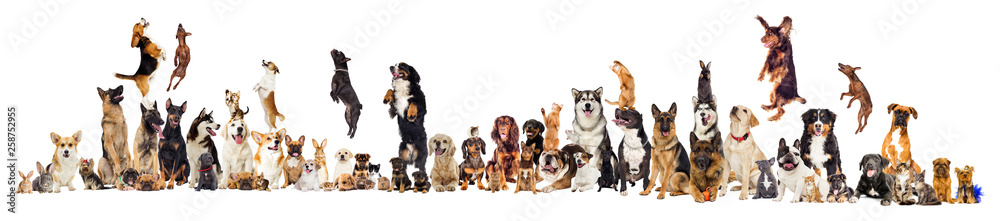
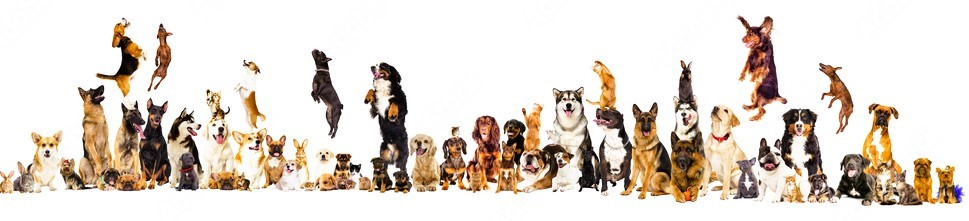
se armó tabla y se agregó botón en index,se cambió imagen y agregó botón en servicios

diff --git a/pages/Servicios.html b/pages/Servicios.html
@@ -69,7 +69,7 @@
             <section id="seccionPrincipalServicios">
                 <h3 data-aos="flip-left" data-aos-easing="ease-out-cubic" data-aos-duration="2000"> Atención
                     personalizada <br />-Silvina Marinelli-</h3>
-                <img src="../img/fondo principal perros y gatos.jpg" class="card-img-top " alt="diagnostico">
+                <img src="../img/principal muchos perros.jpg" class="card-img-top " alt="princicpalServicios" data-aos="zoom-out-down">
             
             </section>
 
@@ -96,11 +96,11 @@
                 </ul>
                 </div>
                 
-                <div class="col-12 col-md-6 p-0 d-flex flex-column justify-content-center" >
+                <div class="col-12 col-md-6 p-0 d-flex flex-column justify-content-center align-items-center" >
                 <h3 class="p-2 m-0">Turnos de peluquería al 1141760466</h3>
                 <p class="p-2 m-0 text-center">Atendemos de Martes a Sábados </p>
-                <a href="https://wa.me/541141760466" target="blank"><button>Envía un whatsapp para tener tu turno
-                    aquí!</button></a>
+                <a href="https://wa.me/541141760466" target="blank">
+                <button type="button" class="btn btn-secondary" disabled>Envía un whatsapp para tener tu turno aquí!</button> </a>
                 </div>
             </section>
         </div>
@@ -115,8 +115,8 @@
 
             <div class="row justify-content-around">
 
-                <div class="col-12 col-md-4 card" style="width: 25rem;">
-                    <img src="../img/ICONO ATENCION CLINICA (2).jpg" class="card-img-top" alt="atencionClinica">
+                <div class="col-12 col-md-4 card m-1" style="width: 25rem;">
+                    <img data-aos="zoom-in" src="../img/ICONO ATENCION CLINICA (2).jpg" class="card-img-top" alt="atencionClinica">
                     <div class="card-body">
                         <h5 class="card-title text-center">ATENCION CLINICA</h5>
                         <p class="card-text">La Dra. Silvina Marinelli realiza la atención clínica personalizada para perros y gatos. La
@@ -125,15 +125,15 @@
                             diagnóstico.</p>
                     </div>
                 </div>
-                <div class="col-12 col-md-4 card" style="width: 25rem;">
-                    <img src="../img/ICONO DIAGNOSTICO2.jpg" class="card-img-top " alt="diagnostico">
+                <div class="col-12 col-md-4 card m-1" style="width: 25rem;">
+                    <img data-aos="zoom-in" src="../img/ICONO DIAGNOSTICO2.jpg" class="card-img-top " alt="diagnostico">
                     <div class="card-body">
                         <h5 class="card-title text-center">DIAGNOSTICOS POR IMAGENES</h5>
                         <p class="card-text">Contamos con un gran equipo de profesionales especializados, capacitados para atender tanto perros y gatos. Amplia disponibilidad horaria tanto para ecografías como para radiología</p>
                     </div>
                 </div>
-                <div class="col-12 col-md-4 card" style="width: 25rem;">
-                    <img src="../img/ICONO CIRUGIA (2).jpg" class="card-img-top w-100" alt="cirugias">
+                <div class="col-12 col-md-4 card m-1" style="width: 25rem;">
+                    <img data-aos="zoom-in" src="../img/ICONO CIRUGIA (2).jpg" class="card-img-top w-100" alt="cirugias">
                     <div class="card-body">
                         <h5 class="card-title text-center">CIRUGÍAS</h5>
                         <p class="card-text">Cirugías generales, como por ejemplo: castraciones, limpieza y extracción de dientes                         laparotomías

diff --git a/index.html b/index.html
@@ -105,11 +105,10 @@
                 </ul>
                 </div>
                 
-                <div class="col-12 col-md-6 p-0 d-flex flex-column justify-content-center" >
+                <div class="col-12 col-md-6 p-0 d-flex flex-column justify-content-center align-items-center" >
                 <h3 class="p-2 m-0">Turnos de peluquería al 1141760466</h3>
                 <p class="p-2 m-0 text-center">Banos y cortes de pelo para perros de Martes a Sábados </p>
-                <a href="https://wa.me/541141760466" target="blank"><button>Sacá turno enviando tu mensaje
-                        aqui</button></a>
+                <a href="https://wa.me/541141760466" target="blank"><button type="button" class="btn btn-secondary" disabled>Envía un whatsapp para tener tu turno aquí!</button> </a>
                 </div>
             </section>
         </div>
@@ -135,43 +134,50 @@
                 <h2 data-aos="flip-left" class="p-2 mt-3">NUESTROS HORARIOS</h2>
                 <!-- TABLA DE HORARIOS  -->
 
-                <table class=" d-flex justify-content-center flex-column text-center w-100"> 
-                    <caption class="text-center">ATENCIÓN CLÍNICA</caption>
+                <table class=" table text-center"> 
+                    <h4 class="text-center">ATENCIÓN CLÍNICA</h4>
                     <thead>
                         <tr>
-                            <th>Día</th>
-                            <th>Mañana</th>
-                            <th>Tarde</th>
+                            <th scope="col"></th>
+                            <th scope="col">Día</th>
+                            <th scope="col">Mañana</th>
+                            <th scope="col">Tarde</th>
                         </tr>
                     </thead>
 
                     <tbody>
                         <tr>
+                            <th scope="row">1</th>
                             <td>Lunes</td>
                             <td>X</td>
                             <td>15 a 17 hs</td>
                         </tr>
                         <tr>
+                            <th scope="row">2</th>
                             <td>Martes</td>
                             <td>9.30 a 12.30 hs</td>
                             <td>16.30 a 18.30 hs</td>
                         </tr>
                         <tr>
+                            <th scope="row">3</th>
                             <td>Miércoles</td>
                             <td>X</td>
                             <td>15 a 18 hs</td>
                         </tr>
                         <tr>
+                            <th scope="row">4</th>
                             <td>Jueves</td>
                             <td>9.30 a 14 hs</td>
                             <td>X</td>
                         </tr>
                         <tr>
+                            <th scope="row">5</th>
                             <td>Viernes</td>
                             <td>X</td>
                             <td>X</td>
                         </tr>
                         <tr>
+                            <th scope="row">6</th>
                             <td>Sábado</td>
                             <td>9.30 a 12.30 hs</td>
                             <td>9.30 a 13 a 17 hs</td>

diff --git a/pages/peluqueria.html b/pages/peluqueria.html
@@ -60,7 +60,7 @@
 </header>
 
 <!-- Main-->
-    <main>
+    <main class="container-fuid">
 
         <!--imagen principal-->
         <div class="unionCajasPeluqueria">
@@ -221,25 +221,32 @@
 
 <footer>
 
-    <div class="cajaFooter">
-        <h4>Contacto</h4>
-        <p>Av. Gaona 2009, Ramos Mejía, Buenos Aires </p>
-        <p>Teléfono 011 15-4949-9584 </p>
-        <p>Turnos para peluquería 11-41760466 </p>
-            <a href="https://wa.me/541141760466" target="blank"><img src="../img/icons8-whatsapp-48 (1).png" alt="logo_whatsapp" height="50vw">
-            </a>
-        
-    </div>
 
-    <div class="cajaFooter">
-    <h4>Servicios</h4>
-    <ul>
-        <li>Atención clínica</li>
-        <li>Estudios</li>
-        <li>Cirugías generales</li>
-        <li>Peliquería canina</li>
-    </ul>
-    </div>
+    <section ID="cajaFooter" class="container py-5 justify-content-around text-justify">
+        <div class="row">
+            <div class="col-12 col-md-6 pb-2">
+                <h4>Contacto</h4>
+                <p> Av. Gaona 2009, Ramos Mejía, Buenos Aires </p>
+                <p>Teléfono 011 15-4949-9584 </p>
+                <p>Turnos para peluquería 11-41760466 </p>
+                <a href="https://wa.me/541141760466" target="blank"><img src="../img/icons8-whatsapp-48 (1).png"
+                        alt="logo_whatsapp" height="50vw">
+                </a>
+            </div>
+            <div class="col-12 col-md-6">
+                <h4>Servicios</h4>
+                <ul>
+                    <li>Atención clínica</li>
+                    <li>Estudios</li>
+                    <li>Cirugías generales</li>
+                    <li>Peliquería canina</li>
+                </ul>
+
+            </div>
+        </div>
+
+    </section>
+
 
 </footer>
 

diff --git a/css/styles.css b/css/styles.css
@@ -37,6 +37,7 @@ html{
 
 h1{
     font-family:'Libre Baskerville', serif;
+    
 }    
 
 h3{
@@ -94,12 +95,7 @@ h2{
 }      
 
 button{
-    align-self: center;
     padding: 0.5rem;
-    text-decoration:underline;
-    color: rgb(83, 83, 87);
-    margin-bottom: 1rem;
-    display: inline-block;
 }   
 
 .blog {
